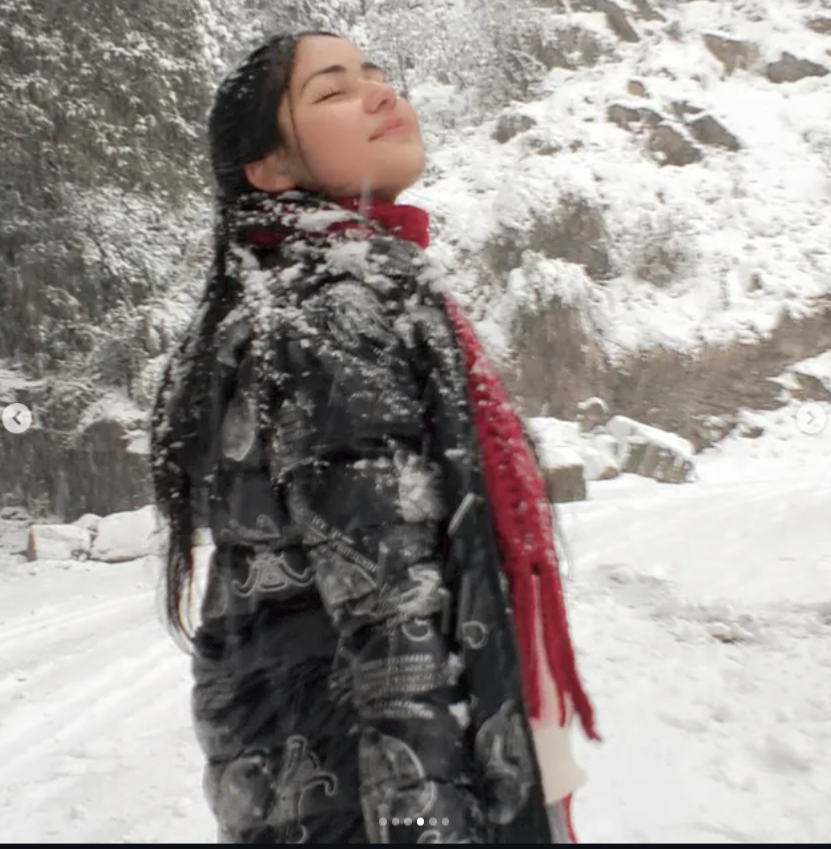
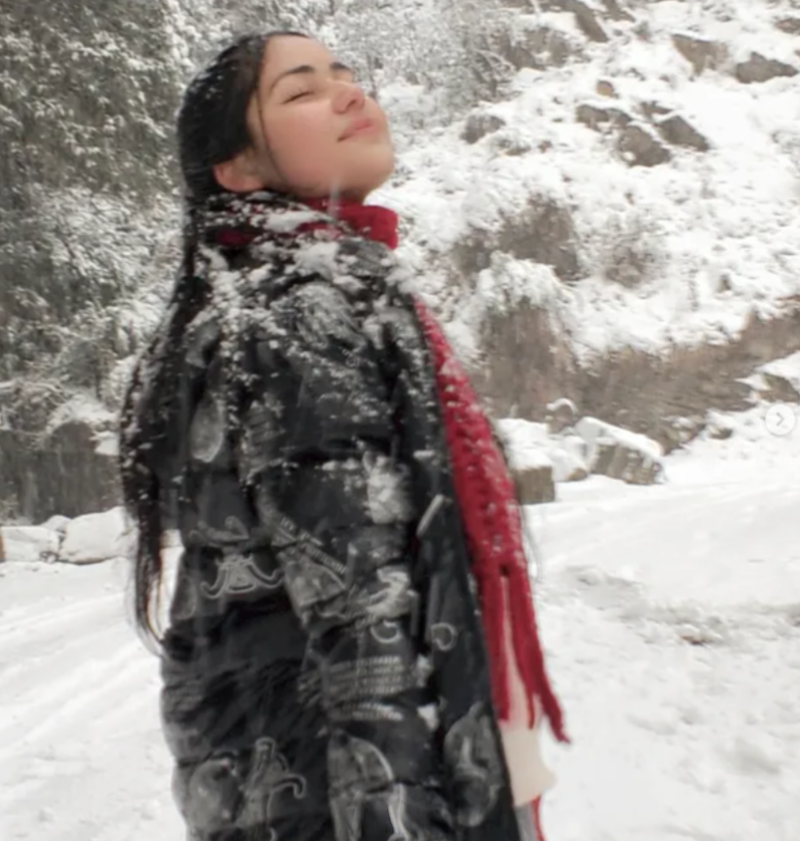
ADDED

diff --git a/another.html b/another.html
@@ -63,12 +63,12 @@
 
       .heart {
         position: absolute;
-        top: 10px;
-        right: 10px;
+        top: 5px;
+        right: 5px;
         color: #e57373;
         font-size: 22px;
         background: rgba(255, 255, 255, 0.8);
-        padding: 8px;
+        padding: 5px;
         border-radius: 50%;
       }
 
@@ -125,7 +125,7 @@
   </head>
 
   <body>
-    <h1>YOU'RE AWESOME 🤍</h1>
+    <h1>YOU'RE BEAUTIFUL 🤍</h1>
 
     <div class="slider">
       <div class="card">
@@ -138,7 +138,7 @@
 
       <div class="card">
         <div class="image-wrapper">
-          <img src="image2.png" alt="Photo 2" />
+          <img src="image2.jpg" alt="Photo 2" />
           <div class="heart"><i class="fa-solid fa-heart"></i></div>
         </div>
         <p>This moment felt like peace.</p>
@@ -149,7 +149,7 @@
           <img src="image3.png" alt="Photo 3" />
           <div class="heart"><i class="fa-solid fa-heart"></i></div>
         </div>
-        <p>I could replay this memory forever.</p>
+        <p>You look absolutely stunning.</p>
       </div>
 
       <div class="card">
@@ -162,7 +162,7 @@
 
       <div class="card">
         <div class="image-wrapper">
-          <img src="image5.png" alt="Photo 5" />
+          <img src="image5.jpg" alt="Photo 5" />
           <div class="heart"><i class="fa-solid fa-heart"></i></div>
         </div>
         <p>And this… this is my favorite 🤍</p>
